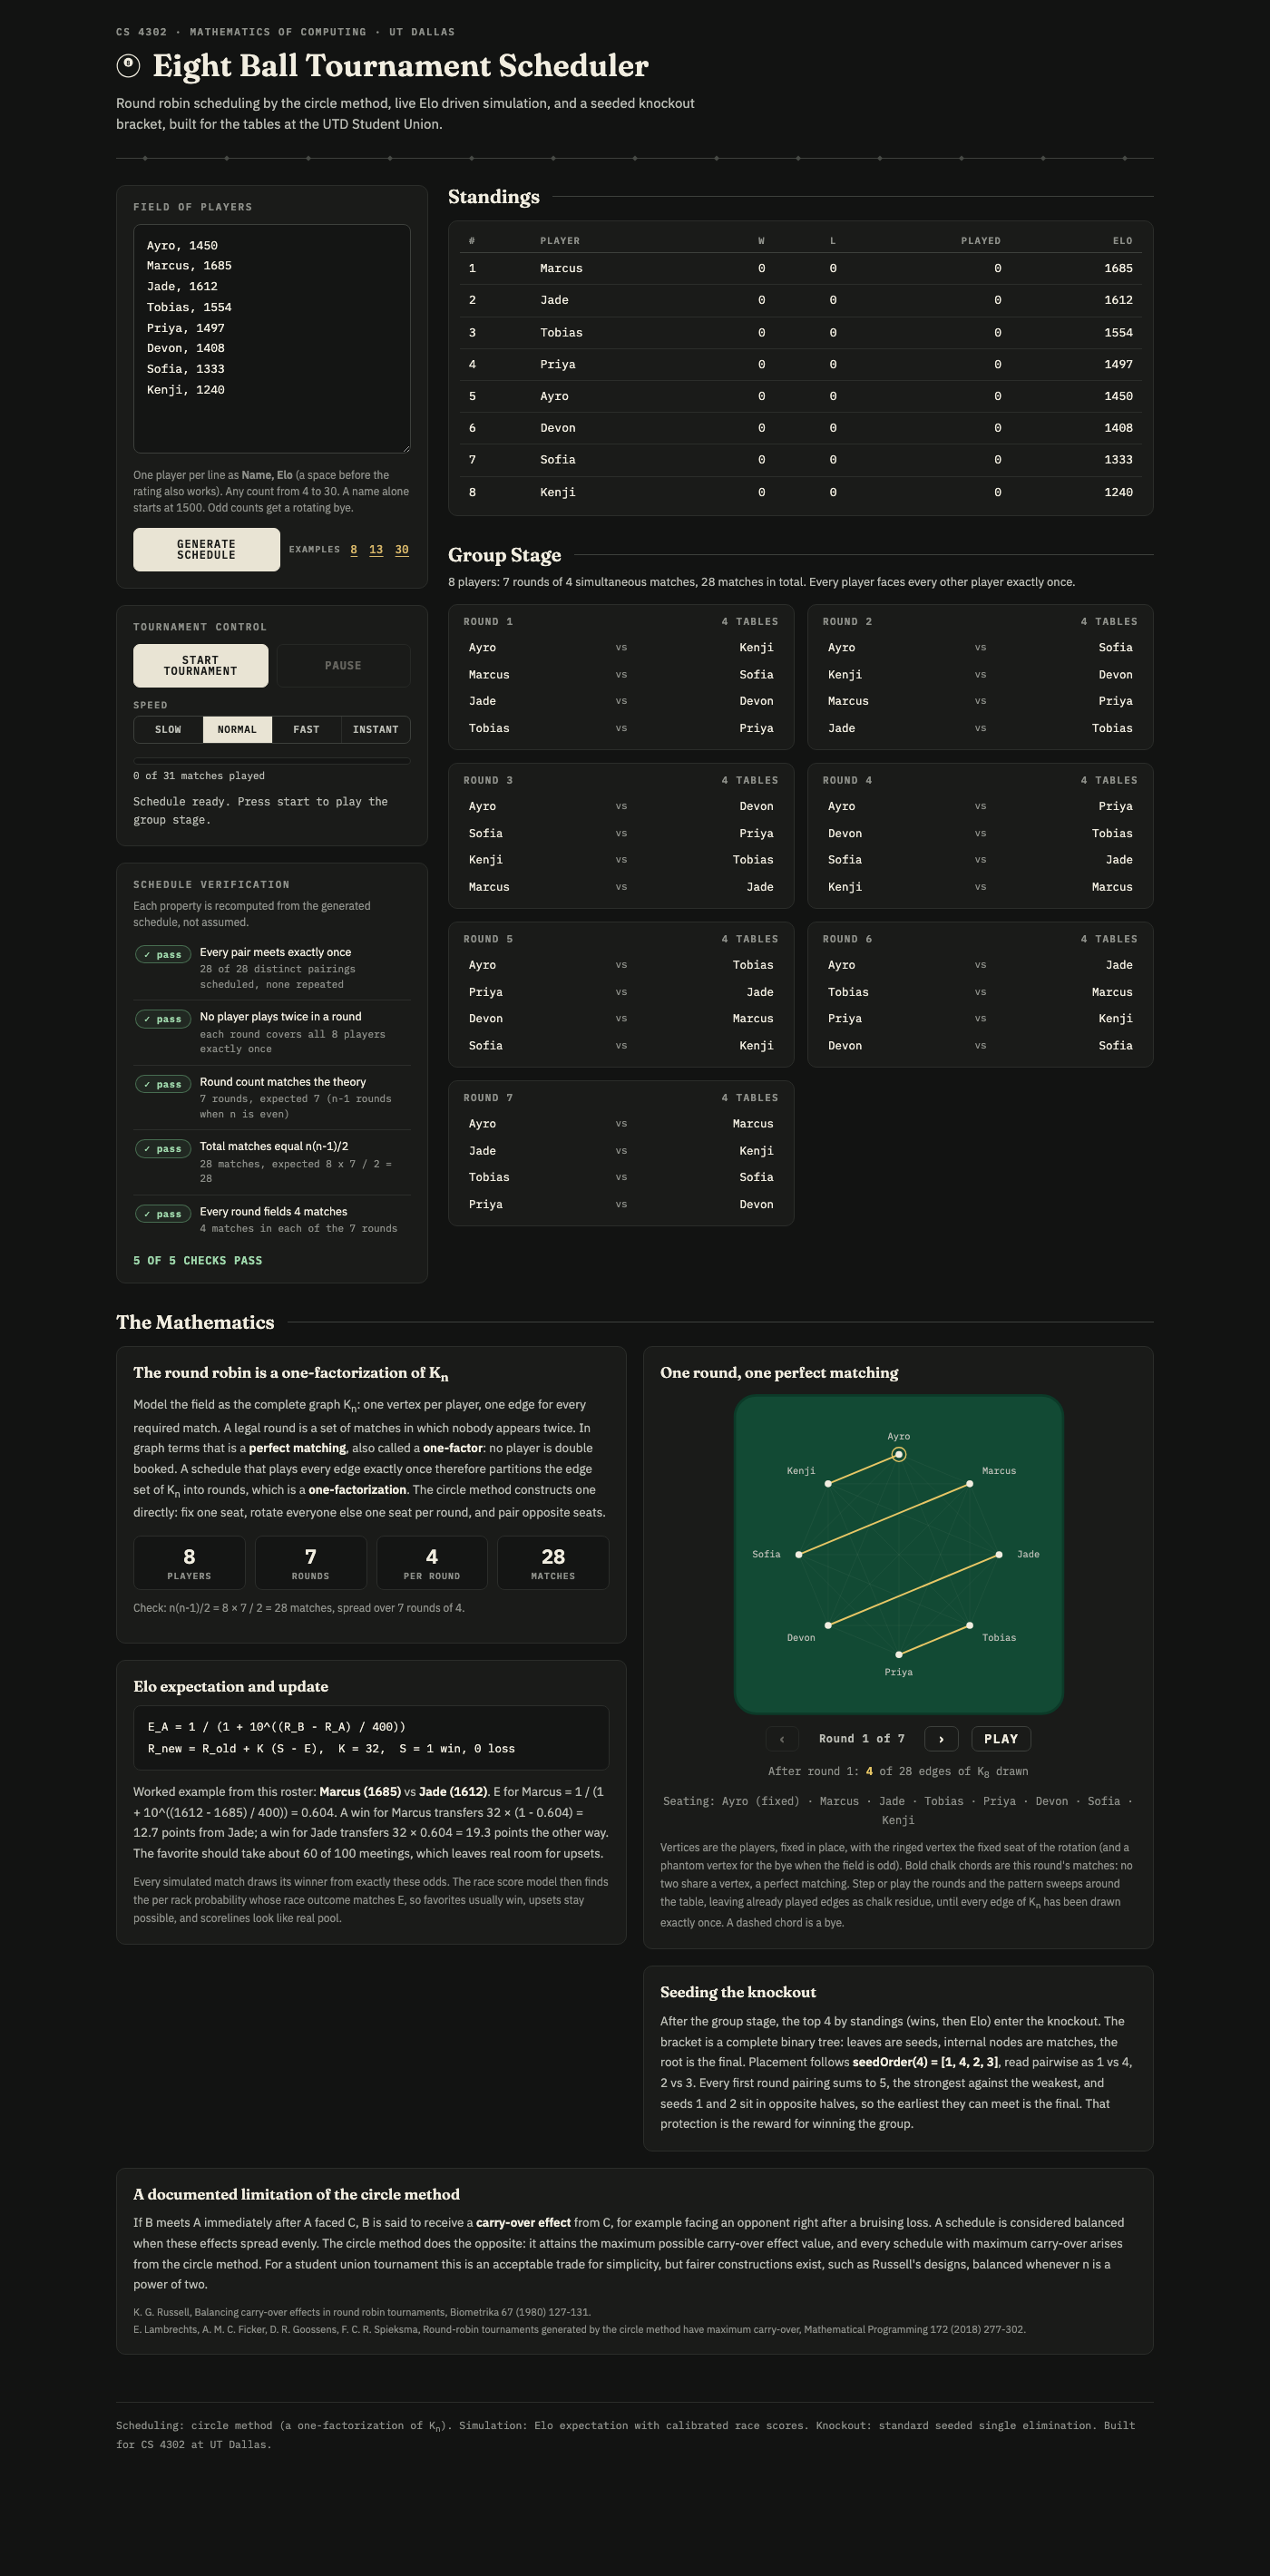
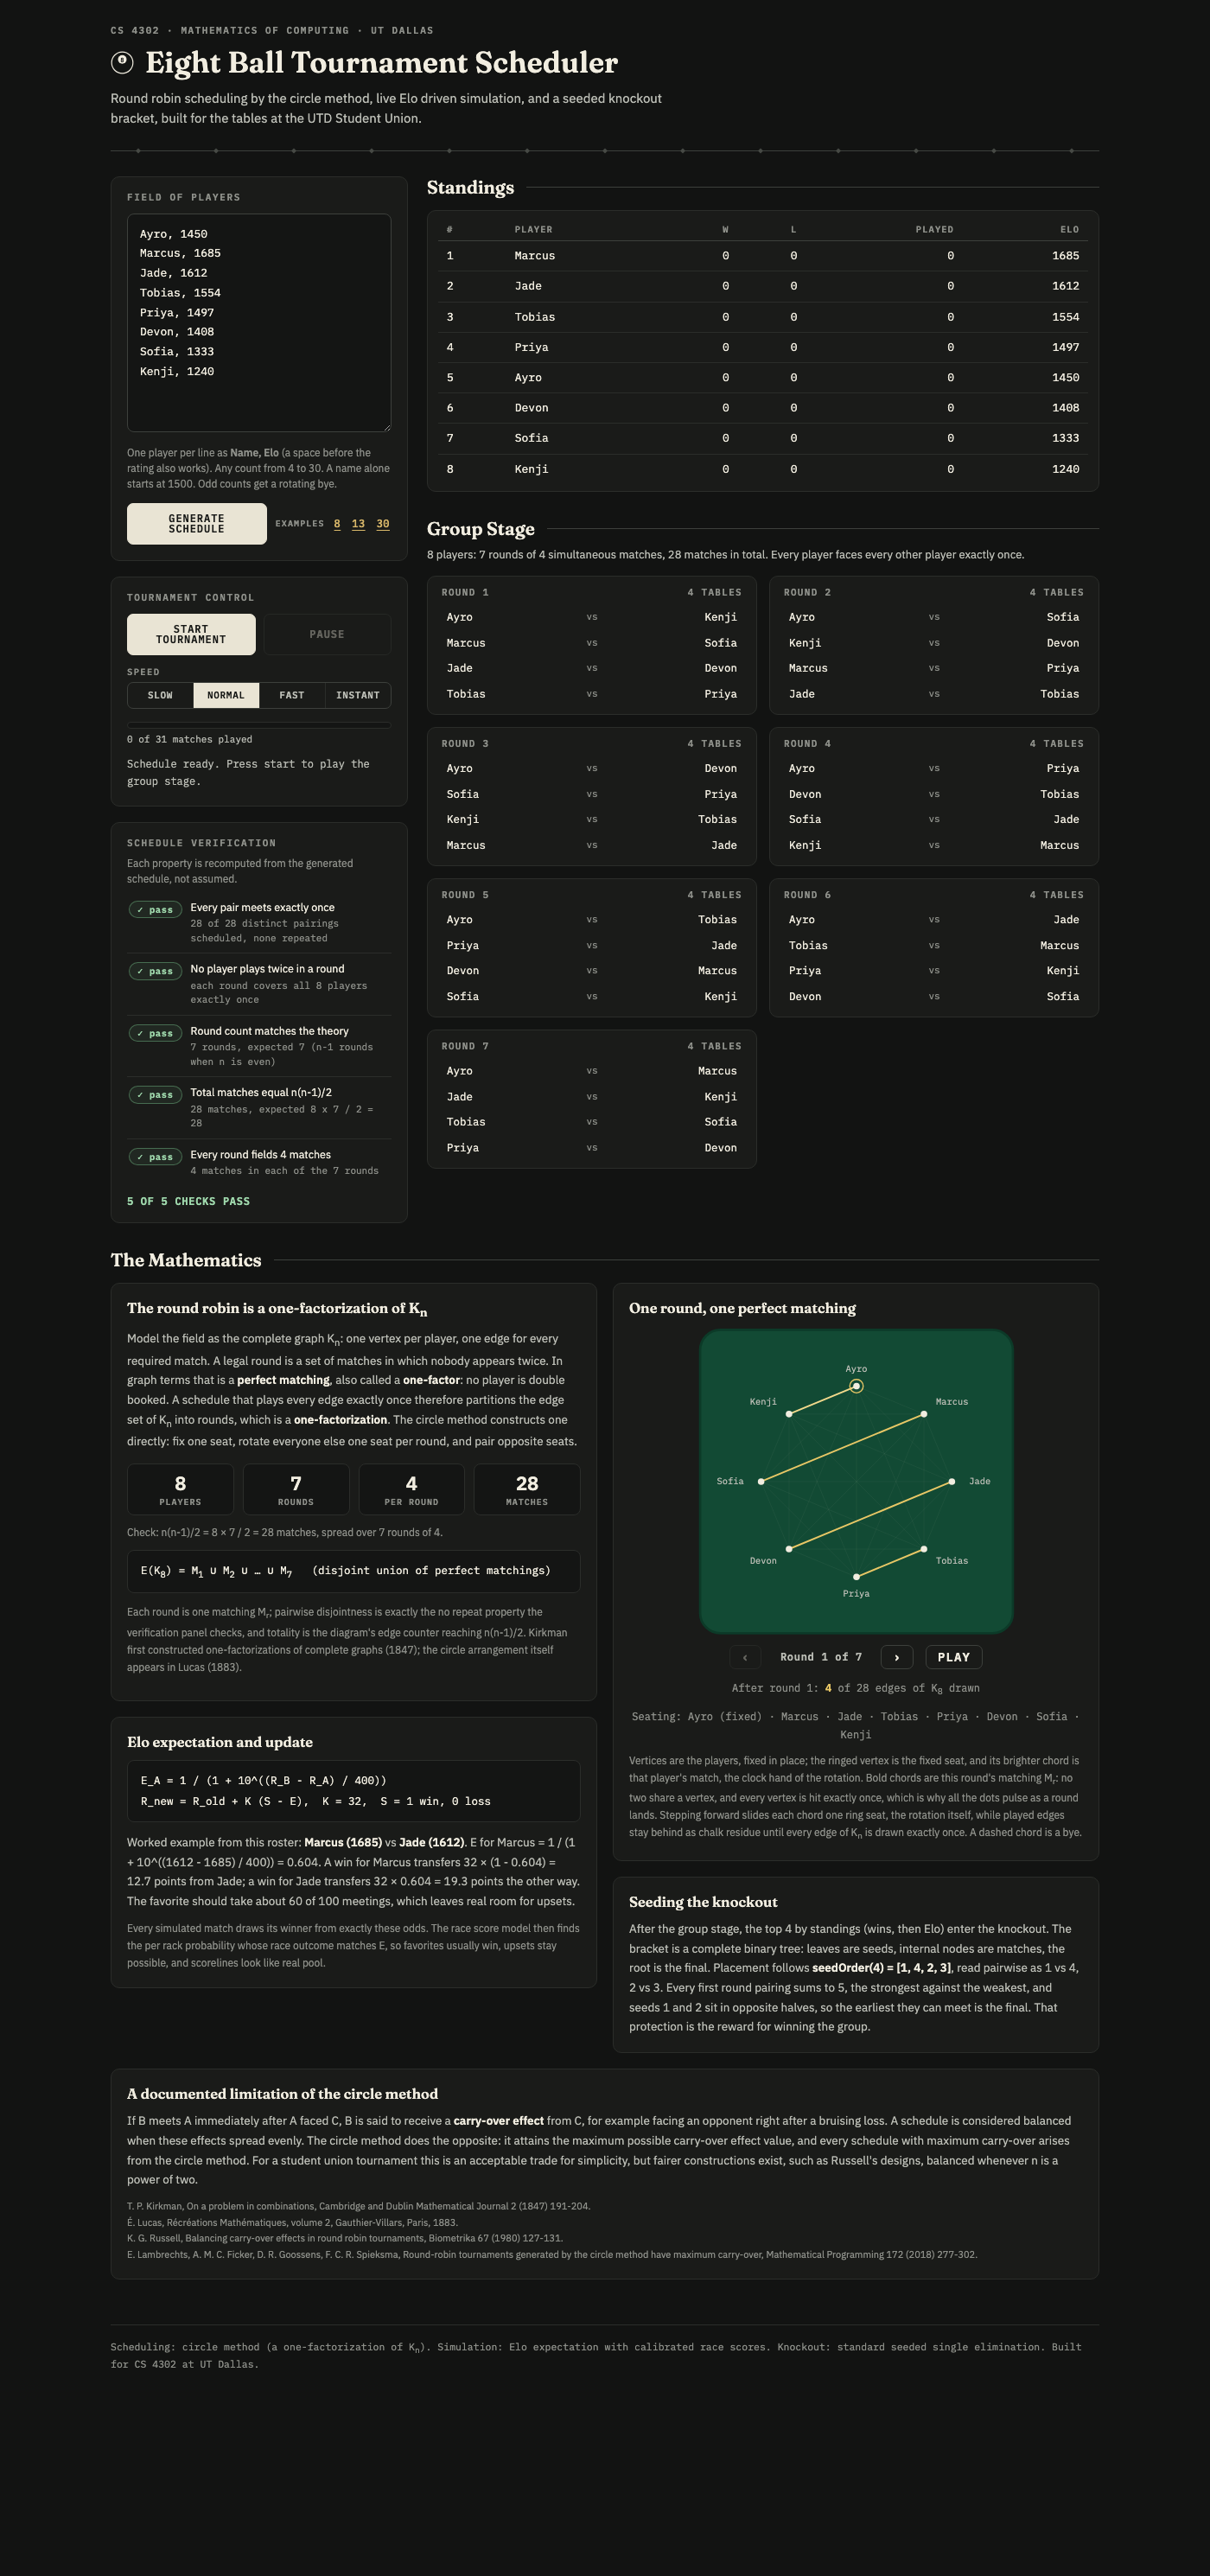
Document the animated proof and refresh the screenshot

diff --git a/README.md b/README.md
@@ -32,7 +32,7 @@ The runner extracts the exact algorithm block shipped inside `index.html` (frame
 2. Point at the group note (8 players, 7 rounds, 28 matches), then at the stat tiles in the mathematics panel where the same numbers fall out of n(n-1)/2.
 3. Press Start Tournament on Normal speed. A result lands roughly every 0.7 seconds: scores fill into the schedule, standings resort, and Elo deltas flash.
 4. Pause, resume, then switch the speed to Instant. The top 4 seed into the bracket and a champion is crowned.
-5. Press Play on the K_n diagram. The matching sweeps the felt round by round, played edges stay as chalk residue, and the counter runs to "all 28 edges drawn exactly once". That is the one-factorization working in front of you.
+5. Press Play on the K_n diagram. Each step slides every chord one ring seat (the rotation itself, animated), the dots pulse because every vertex is covered exactly once (the definition of a perfect matching), played edges stay as chalk residue, and the counter runs to "all 28 edges drawn exactly once". That is the one-factorization proving itself in front of you.
 6. Click the example fields (8, 13, 30). Thirteen shows the rotating bye and n rounds for odd n; thirty shows the same guarantees at 29 rounds and 435 matches, verified live.
 
 ## The mathematics
@@ -41,7 +41,7 @@ The runner extracts the exact algorithm block shipped inside `index.html` (frame
 
 Model the field as the complete graph K_n: one vertex per player, one edge per required match. A legal round is a perfect matching (a one-factor) of K_n, since no player may appear twice. A schedule that plays each edge exactly once across n-1 rounds partitions the edge set into one-factors: a one-factorization of K_n.
 
-The construction: fix one player in a seat, arrange the rest in a ring, pair opposite seats each round, rotate the ring one seat between rounds. Why every pair meets exactly once: label the ring players 0..n-2. Opposite seat positions have a constant position sum, so after r rotations the pairs that meet are exactly those whose label sum falls in a fixed residue class shifted by 2r modulo n-1. Since n-1 is odd, 2 is invertible mod n-1, so the n-1 rounds sweep every residue class once and each pair of labels meets in exactly one round. The fixed player meets whichever ring player rotates into the opposite seat, a different one each round.
+The construction is as old as the theory: Kirkman first built one-factorizations of complete graphs (1847), and the circle arrangement itself appears in Lucas (1883). Fix one player in a seat, arrange the rest in a ring, pair opposite seats each round, rotate the ring one seat between rounds. Why every pair meets exactly once: label the ring players 0..n-2. Opposite seat positions have a constant position sum, so after r rotations the pairs that meet are exactly those whose label sum falls in a fixed residue class shifted by 2r modulo n-1. Since n-1 is odd, 2 is invertible mod n-1, so the n-1 rounds sweep every residue class once and each pair of labels meets in exactly one round. The fixed player meets whichever ring player rotates into the opposite seat, a different one each round.
 
 Odd fields add a phantom bye seat: the schedule becomes a one-factorization of K_(n+1) and the player paired with the phantom rests, so there are n rounds and each player rests exactly once.
 
@@ -68,6 +68,8 @@ The circle method is correct but maximally unbalanced with respect to the carry-
 
 ## References
 
+- T. P. Kirkman, On a problem in combinations, Cambridge and Dublin Mathematical Journal 2 (1847) 191-204.
+- E. Lucas, Recreations Mathematiques, volume 2, Gauthier-Villars, Paris, 1883.
 - K. G. Russell, Balancing carry-over effects in round robin tournaments, Biometrika 67 (1980) 127-131.
 - E. Lambrechts, A. M. C. Ficker, D. R. Goossens, F. C. R. Spieksma, Round-robin tournaments generated by the circle method have maximum carry-over, Mathematical Programming 172 (2018) 277-302.
 - A. E. Elo, The Rating of Chess Players, Past and Present, Arco, 1978.